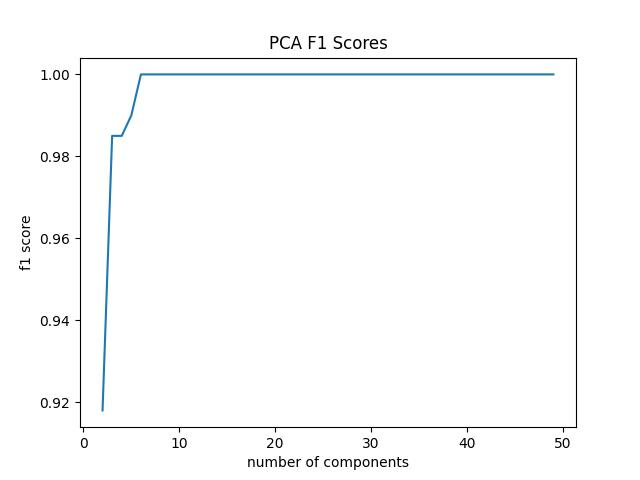
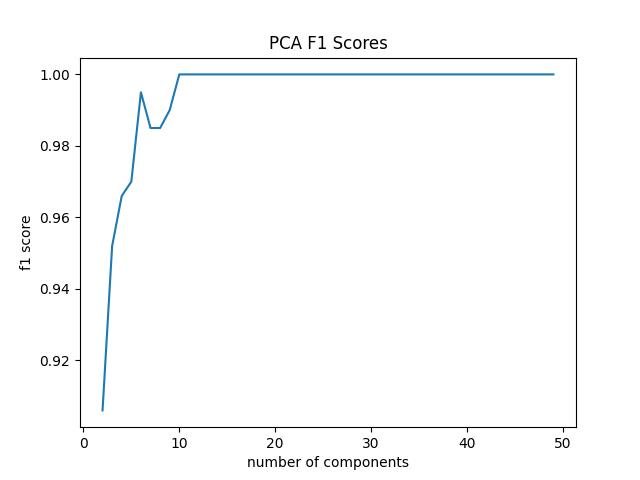
Co-authored-by: Andreas Gassilloud <Cormodoran@users.noreply.github.com> cluster fun

diff --git a/src/numeric.py b/src/numeric.py
@@ -1,5 +1,6 @@
+import csv
 import random
-
+import math
 import matplotlib.pyplot as plt
 import numpy as np
 import pandas as pd
@@ -8,7 +9,7 @@ from sklearn.decomposition import PCA as sklearnPCA
 from sklearn.discriminant_analysis import LinearDiscriminantAnalysis as LDA
 from sklearn.ensemble import RandomForestClassifier
 from sklearn.linear_model import LogisticRegression
-from sklearn.metrics import accuracy_score, f1_score
+from sklearn.metrics import accuracy_score, f1_score, make_scorer
 from sklearn.model_selection import cross_validate, train_test_split
 from sklearn.neighbors import KNeighborsClassifier
 from sklearn.tree import DecisionTreeClassifier
@@ -64,7 +65,7 @@ def preprocess_data(model, x_train, x_test, y_train):
     return x_train, x_test
 
 def determine_best_col_num(model, classifier, x_train, y_train, max_n, plot=False):
-    x_train, x_test, y_train, y_test = train_test_split(x_train, y_train, test_size=0.3, stratify=y_train)
+    x_train, x_test, y_train, y_test = train_test_split(x_train, y_train, test_size=0.3, stratify=y_train, random_state=69)
     f1_scores = []
     num_cols = range(2, max_n)
     for n in tqdm(num_cols, leave=False):
@@ -95,11 +96,11 @@ def classify_data(x_train, x_test, y_train, y_test):
     y_predKNN = run_model(KNN, x_train, x_test, y_train)
     knn_accuracy, knn_f1 = get_score(y_predKNN, y_test)
 
-    tree = DecisionTreeClassifier()
+    tree = DecisionTreeClassifier(random_state=69)
     y_predTree = run_model(tree, x_train, x_test, y_train)
     tree_accuracy, tree_f1 = get_score(y_predTree, y_test)
 
-    log = LogisticRegression(max_iter=400, solver='liblinear')
+    log = LogisticRegression(max_iter=400, solver='liblinear', random_state=69)
     y_predlog = run_model(log, x_train, x_test, y_train)
     log_accuracy, log_f1 = get_score(y_predlog, y_test)
 
@@ -112,17 +113,42 @@ def get_score(pred, y_test):
     f1 = round(f1_score(y_test, pred, average="macro", zero_division=0), 3)
     return accuracy, f1
 
+def calculate_kn_distance(X,k):
+
+    kn_distance = []
+    for i in range(len(X)):
+        eucl_dist = []
+        for j in range(len(X)):
+            eucl_dist.append(
+                math.sqrt(
+                    ((X[i,0] - X[j,0]) ** 2) +
+                    ((X[i,1] - X[j,1]) ** 2)))
+
+        eucl_dist.sort()
+        kn_distance.append(eucl_dist[k])
+
+    return kn_distance
+
+
 def cluster_data_search(x_train, x_test):
     complete_data = np.concatenate((x_train, x_test))
     norm = (complete_data - np.min(complete_data))/np.ptp(complete_data)
-    eps_vals = np.arange(5.5, 6, 0.01)
-    min_vals = range(2, 10)
+
+    print(np.max(norm), np.min(norm))
+    # eps_dist = calculate_kn_distance(norm,20)
+    # plt.hist(eps_dist,bins=30)
+    # plt.ylabel('n');
+    # plt.xlabel('Epsilon distance');
+    # plt.show()
+    # exit()
+    eps_vals = np.arange(0.001, 0.03, 0.001)
+    min_vals = range(10, 50)
     for eps_val in eps_vals:
         for min_sample in min_vals:
-            clustering = DBSCAN(eps = eps_val, min_samples = min_sample).fit(complete_data)
+            clustering = DBSCAN(eps = eps_val, min_samples = min_sample).fit(norm)
             labels = clustering.labels_
             clusters =len(set(labels))-(1 if -1 in labels else 0)
-            print(clusters,eps_val,min_sample )
+            print(clusters,eps_val,min_sample)
 
 def cluster_with_params(x1, x2, eps, min_samples):
     complete_data = np.concatenate((x1, x2))
@@ -141,8 +167,8 @@ def main():
     #------------Data Analysis------------#
     column_names = [f'gene_{i}' for i in range(0, 200)]
     column_names.append('Unnamed: 0')
-    # x = pd.read_csv(f'{data_path}/data.csv').set_index('Unnamed: 0')
-    x = pd.read_csv(f'{data_path}/data.csv',usecols=column_names).set_index('Unnamed: 0')
+    x = pd.read_csv(f'{data_path}/data.csv').set_index('Unnamed: 0')
+    # x = pd.read_csv(f'{data_path}/data.csv',usecols=column_names).set_index('Unnamed: 0')
     y = pd.read_csv(f'{data_path}/labels.csv').set_index('Unnamed: 0').Class
     row_size, col_size = x.shape
     unique_classes = list(set(np.array(y.values)))
@@ -156,14 +182,14 @@ def main():
     pca = sklearnPCA(random_state=69)
     lda = LDA()
     KNN = KNeighborsClassifier(n_neighbors=5)
-    clf = LogisticRegression(random_state=69, max_iter=200)
+    clf = LogisticRegression(random_state=69, max_iter=200, solver='liblinear')
     # pca_components = determine_best_col_num(pca, clf, x_train.to_numpy(), y_train, 50, plot='PCA F1 Scores')
     # lda_components = determine_best_col_num(lda, clf, x_train.to_numpy(), y_train, 5, plot='LDA F1 Scores')
     # pca.set_params(n_components=pca_components)
     # lda.set_params(n_components=lda_components)
 
     #from previous experiments we found
-    pca.set_params(n_components=6)
+    pca.set_params(n_components=10)
     lda.set_params(n_components=4)
 
     pca_x_train, pca_x_test = preprocess_data(pca, x_train, x_test, y_train)
@@ -206,36 +232,51 @@ def main():
 
 
     #------------Clustering------------#
-    # print('\nclustering data...')
-    # # cluster_data_search(original_train, original_test)
-    # # cluster_data_search(reduced_train, reduced_test)
+    print('\nclustering data...')
+    # cluster_data_search(original_train, original_test)
+    cluster_data_search(reduced_train, reduced_test)
     # original_labels, original_clusters = cluster_with_params(original_train, original_test, 17.47, 8)
-    # reduced_labels, reduced_clusters = cluster_with_params(reduced_train, reduced_test, 5.63, 7)
+    reduced_labels, reduced_clusters = cluster_with_params(reduced_train, reduced_test, 5.63, 7)
 
     # print(f'Estimated no. of clusters for original dataset: {original_clusters}')
-    # print(f'Estimated no. of clusters for reduced dataset: {reduced_clusters}')
+    print(f'Estimated no. of clusters for reduced dataset: {reduced_clusters}')
     # original_data = np.concatenate((reduced_train, reduced_test))
-    # reduced_data = np.concatenate((reduced_train, reduced_test))
+    reduced_data = np.concatenate((reduced_train, reduced_test))
     # visualise_cluster(original_data, original_labels, dims=2, save=True,  title='Clustering with Original Data 2D')
-    # visualise_cluster(reduced_data, reduced_labels, dims=2, save=True,  title='Clustering with Reduced Data 2D')
     # visualise_cluster(original_data, original_labels, dims=3, save=True,  title='Clustering with Original Data 3D')
-    # visualise_cluster(reduced_data, reduced_labels, dims=3, save=True,  title='Clustering with Reduced Data 3D')
-    #TODO Gridsearch (crossvalidation, ensemble)
-
+    visualise_cluster(reduced_data, reduced_labels, dims=2, save=True,  title='Clustering with Reduced Data 2D')
+    visualise_cluster(reduced_data, reduced_labels, dims=3, save=True,  title='Clustering with Reduced Data 3D')
+    exit()
     #------------Grid Search------------#
-    #knn for original
-    neighbors  = range(1,31)
-    weights = ['uniform', 'distance']
-    algorithms = ['auto', 'ball_tree', 'kd_tree', 'brute']
-    ps  = [1, 2]
-    for weight in tqdm(weights, desc='weights', leave=False):
-        for p in tqdm(ps, desc='ps', leave=False):
-            for algorithm in tqdm(algorithms, desc='algorithms', leave=False):
-                for neighbor in tqdm(neighbors, desc='neighbors', leave=False):
-                    KNN = KNeighborsClassifier(n_neighbors=neighbor, weights=weight, p=p, algorithm=algorithm)
-                    scores = cross_validate(KNN, original_train, y_train, cv=10, scoring="f1", return_train_score=True)
-                    print(scores)
-                    exit()
+    # #knn for original
+    # neighbors  = range(1,31)
+    # weights = ['uniform', 'distance']
+    # algorithms = ['auto', 'ball_tree', 'kd_tree', 'brute']
+    # ps  = [1, 2]
+    # original_settings = {}
+    # original_best = 0
+    # for weight in tqdm(weights, desc='weights', leave=False):
+    #     for p in tqdm(ps, desc='ps', leave=False):
+    #         for algorithm in tqdm(algorithms, desc='algorithms', leave=False):
+    #             for neighbor in tqdm(neighbors, desc='neighbors', leave=False):
+    #                 KNN = KNeighborsClassifier(n_neighbors=neighbor, weights=weight, p=p, algorithm=algorithm)
+    #                 scores = cross_validate(KNN, original_train, y_train, cv=10, scoring=make_scorer(f1_score, average='weighted') , return_train_score=True)
+    #                 ave_score = np.mean(scores['test_score'])
+
+    #                 if ave_score > original_best:
+    #                     original_best = ave_score
+    #                     original_settings = {
+    #                         'weights': weight,
+    #                         'p': p,
+    #                         'algorithm': algorithm,
+    #                         'neightbor': neighbor,
+    #                         'f1_score': original_best,
+    #                         }
+    # with open('../plots/numeric/original_settings.csv', 'w') as f:  # You will need 'wb' mode in Python 2.x
+    #     w = csv.DictWriter(f, original_settings.keys())
+    #     w.writeheader()
+    #     w.writerow(original_settings)
+
 
 
     #logregression for reduced
